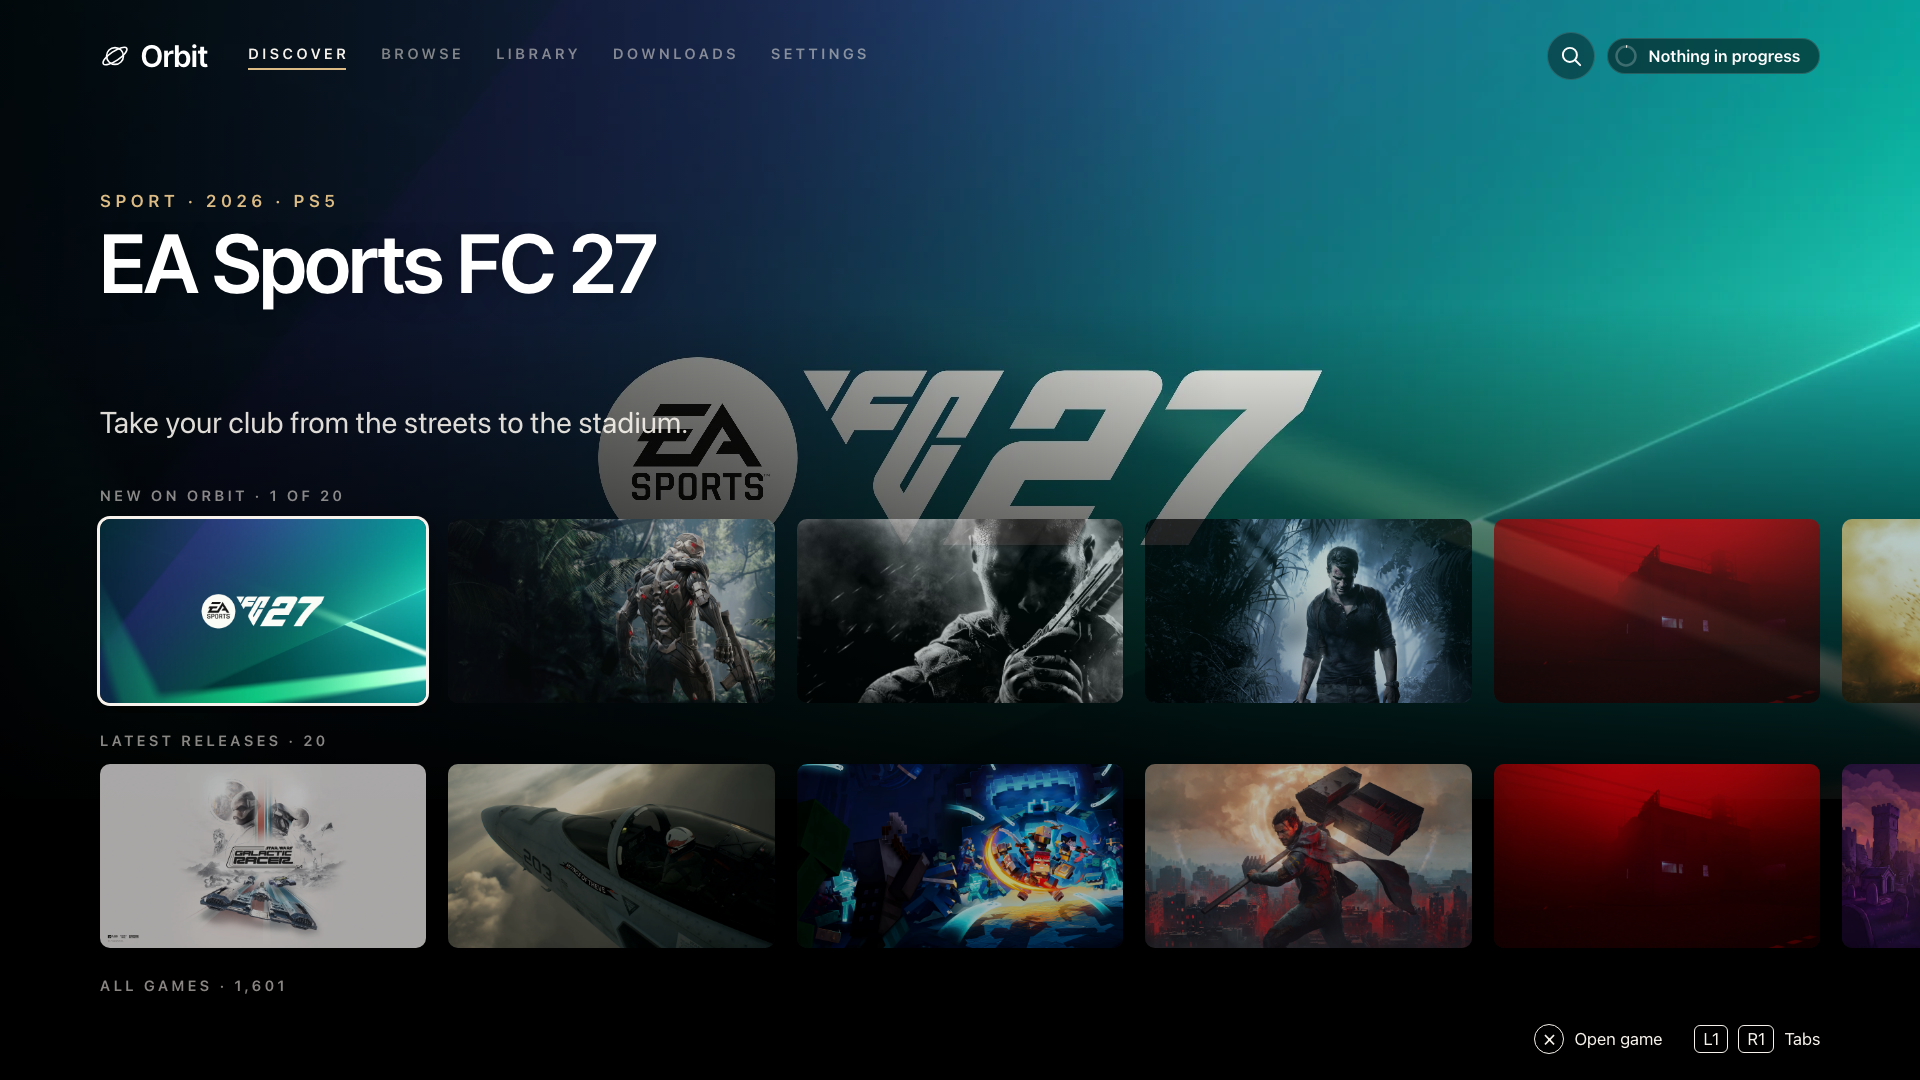
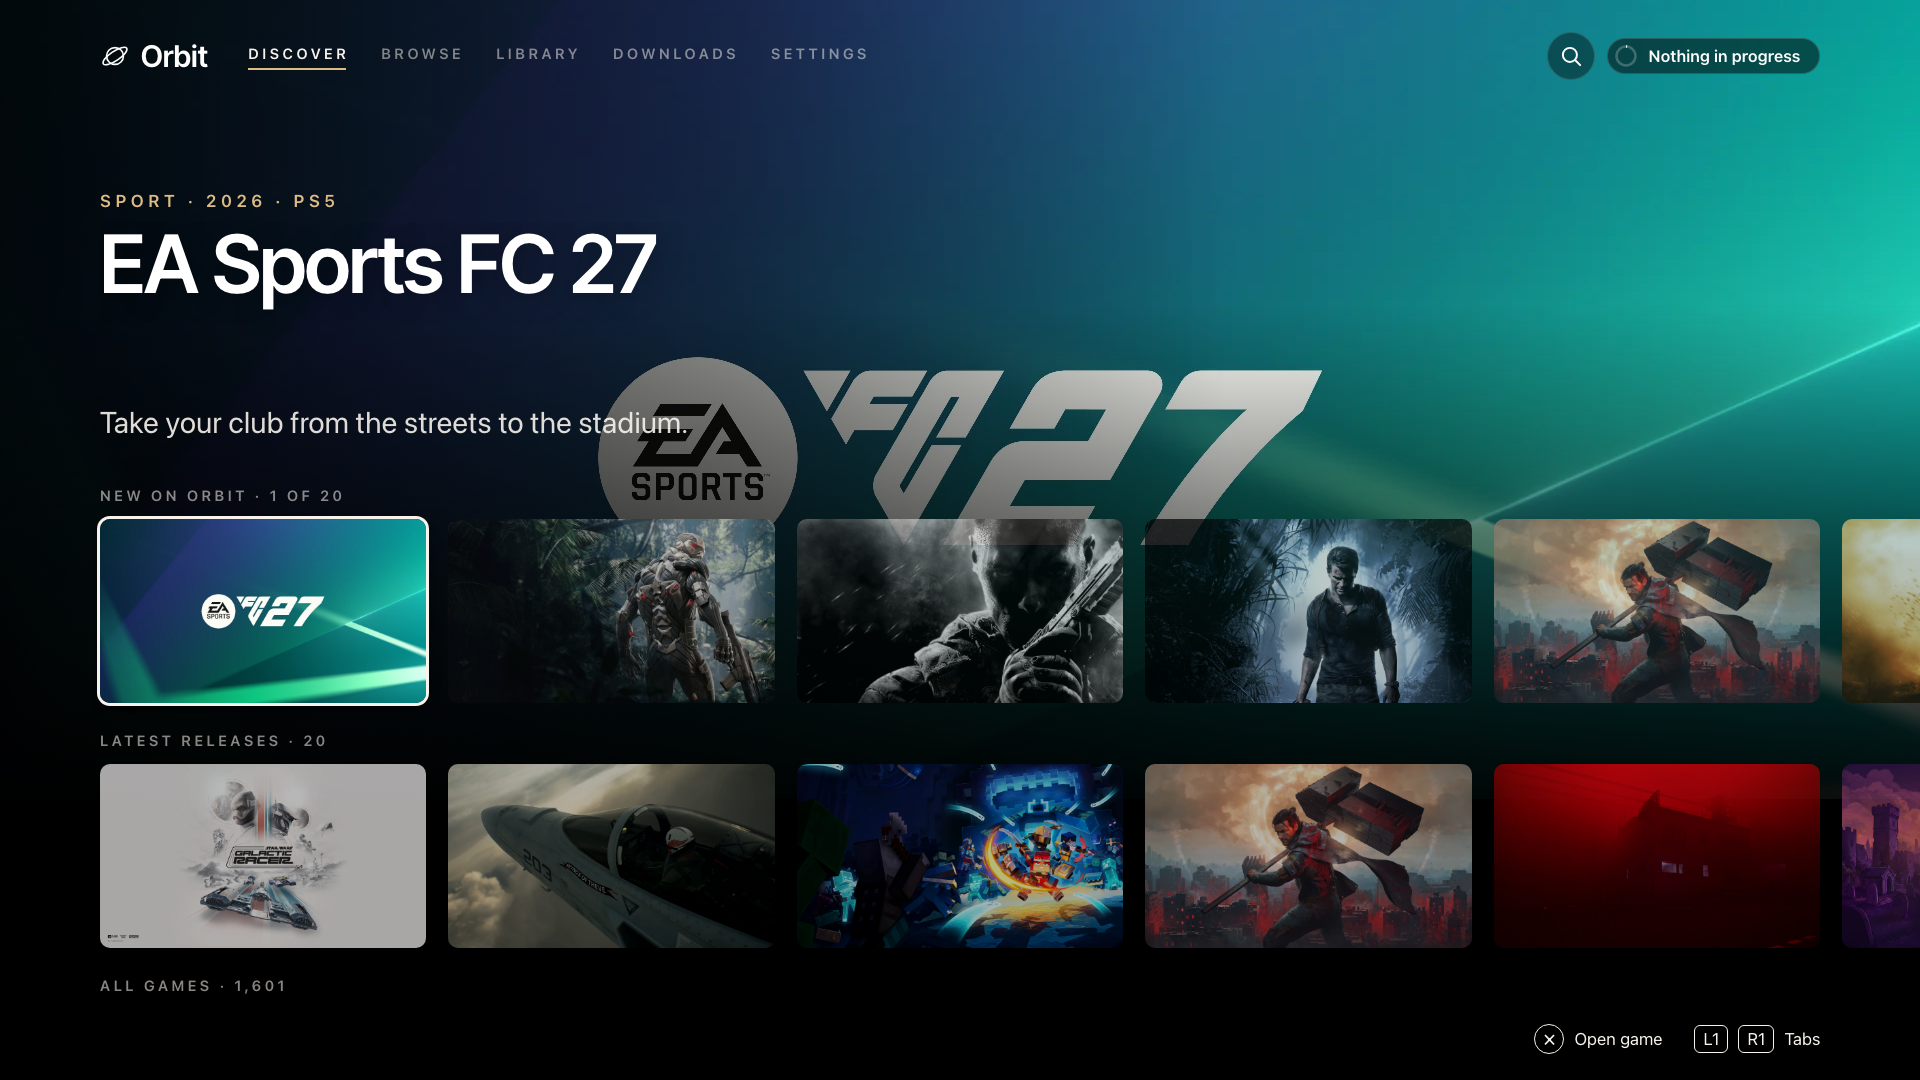
Refresh interface screenshots and README Discover

Changed region(s): [[0.7812, 0.4583, 0.9688, 0.6722]]

diff --git a/README.md b/README.md
@@ -50,13 +50,13 @@ The TV app includes Orbit's download service and can start it through a compatib
 
 Open Orbit from your Games row and use the controller to browse, explore and choose a download. The native app shares your catalogue, favourites and download queue with the browser version.
 
-*Discover, game details and download-options screenshots show the current 1.2.0 catalogue. Browse retains the native app screenshot from 1.1.0. These previews are rendered locally; other screenshots show existing workflows with illustrative storage and download values.*
+*Discover previews the 1.3.0 catalogue in the Store interface. Game details and download options show 1.2.0, and Browse shows the native app from 1.1.0. These previews are rendered locally; other screenshots show existing workflows with illustrative storage and download values.*
 
 ### Discover, browse and choose a download
 
 **Start with something new.** Discover opens first. **New on Orbit** brings featured picks and recent additions to the first row, followed by **Latest releases**. Move down to All games to explore a grid of 96 games per page. PS4 and PS5 editions have their own platform labels and download choices.
 
-![Orbit Store 1.2.0 native Discover with Red Dead Redemption 2 selected](assets/1.2.0/native-discover.png)
+![Orbit Store 1.3.0 Discover with Uncharted 4 selected](assets/1.3.0/store-discover-uncharted.png)
 
 **Keep exploring.** All games gives each title its own tile. Move through the grid with your controller and use the page controls to see more.
 
